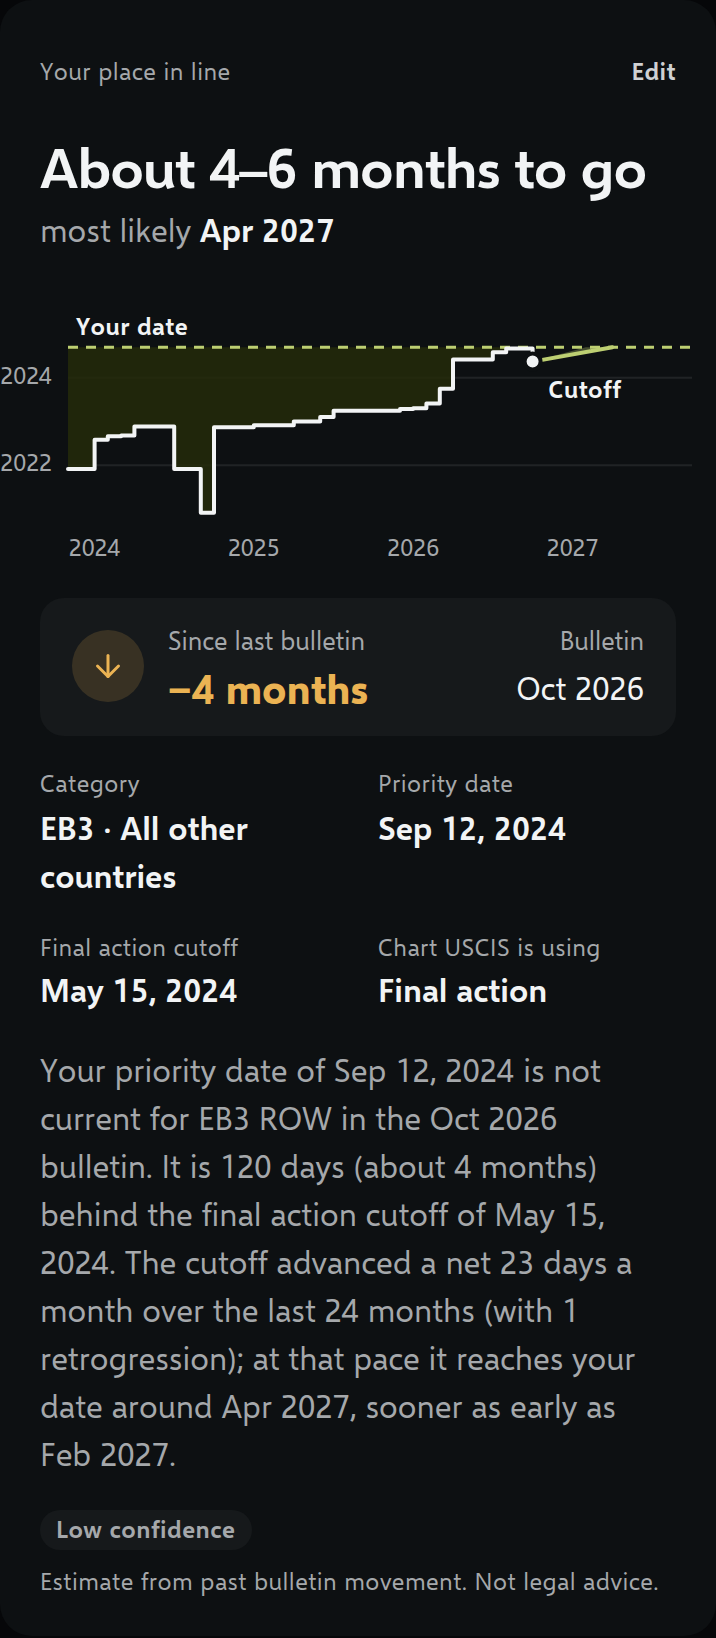
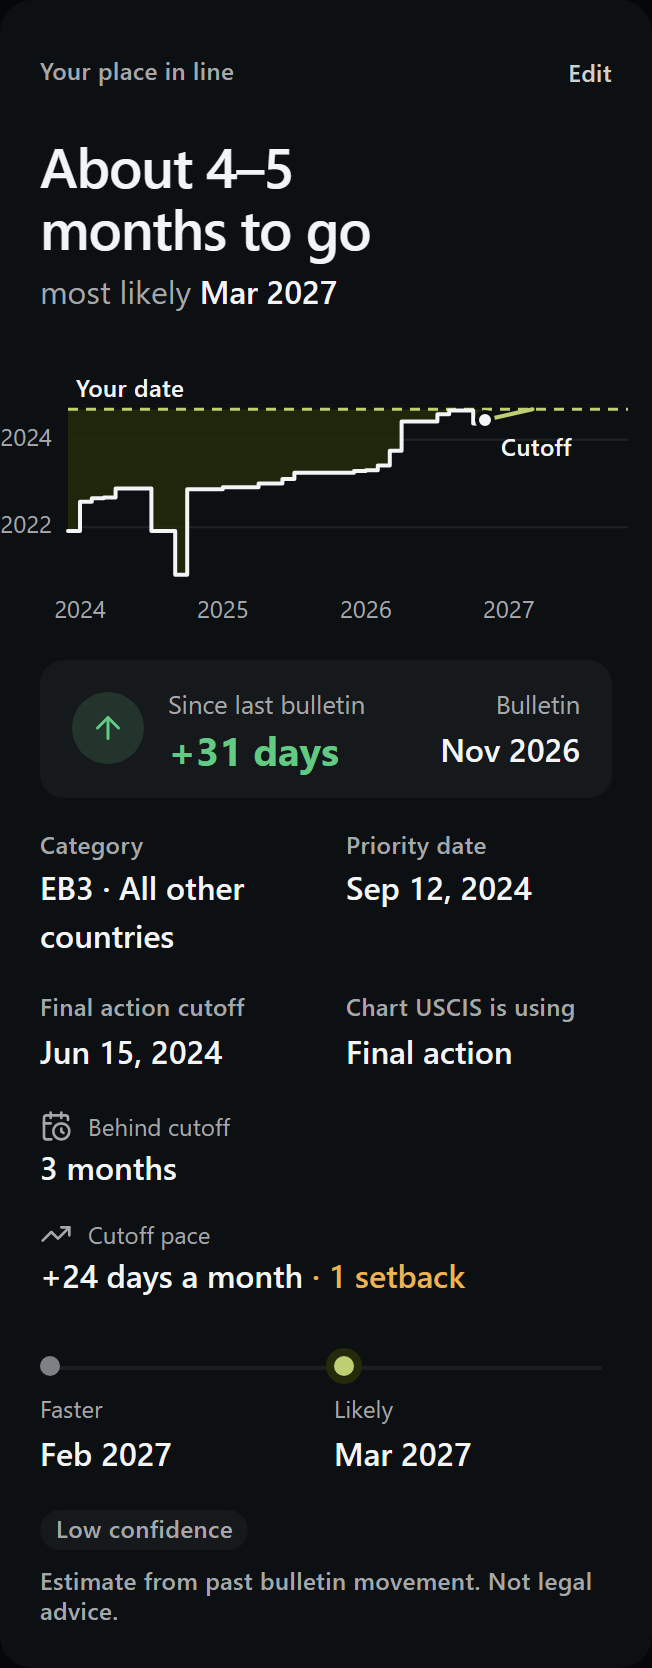
README: screenshots of the new place-in-line and refresh design
Snapshot of the private tree at 12544d1. History is not published.

diff --git a/README.md b/README.md
@@ -10,8 +10,8 @@
 
 <table>
   <tr>
-    <td width="50%"><img src="img/place-in-line.png" alt="Your place in line: about 4-6 months to go, most likely April 2027, with a chart of the visa bulletin cutoff approaching the priority date" /></td>
-    <td width="50%"><img src="img/refresh.png" alt="Refreshing: save one bookmark, sign in to myUSCIS, tap the bookmark, and every case in the household updates" /></td>
+    <td width="50%"><img src="img/place-in-line.png" alt="Your place in line: about 4 to 5 months to go, most likely March 2027, a chart of the visa bulletin cutoff approaching the priority date, how far behind the cutoff it is, how fast the cutoff moves, and a faster, likely and slower arrival track" /></td>
+    <td width="50%"><img src="img/refresh.png" alt="Refreshing in three steps: save the bookmark, sign in to myUSCIS, tap the bookmark" /></td>
   </tr>
   <tr>
     <td><sub><b>Your place in line.</b> The visa bulletin cutoff against your priority date, in plain months.</sub></td>
